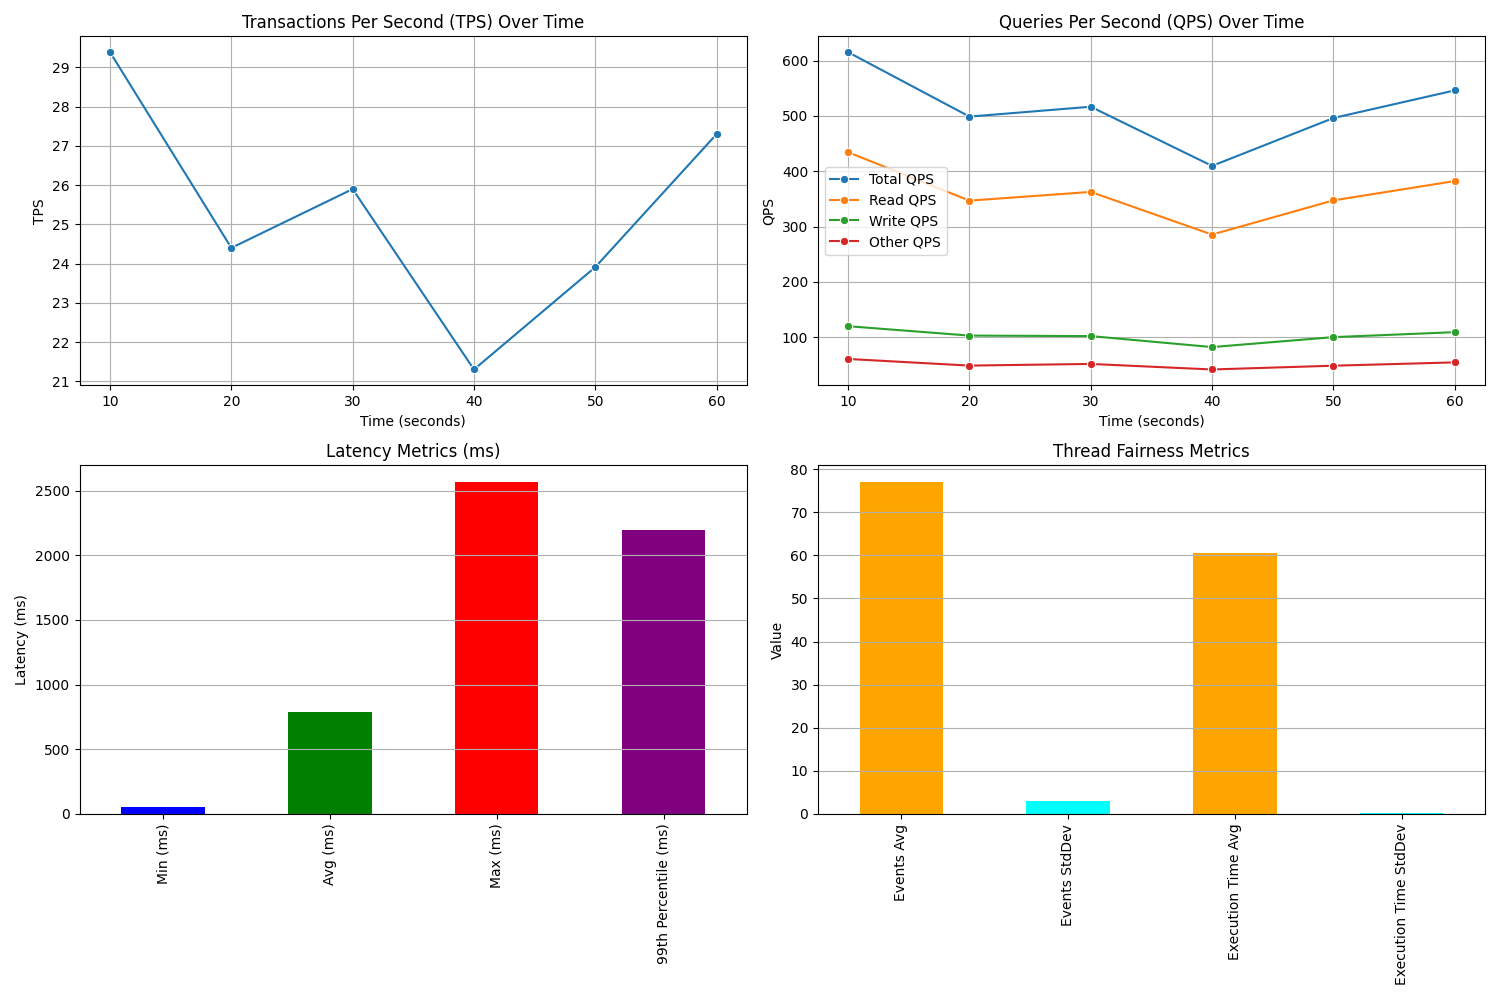
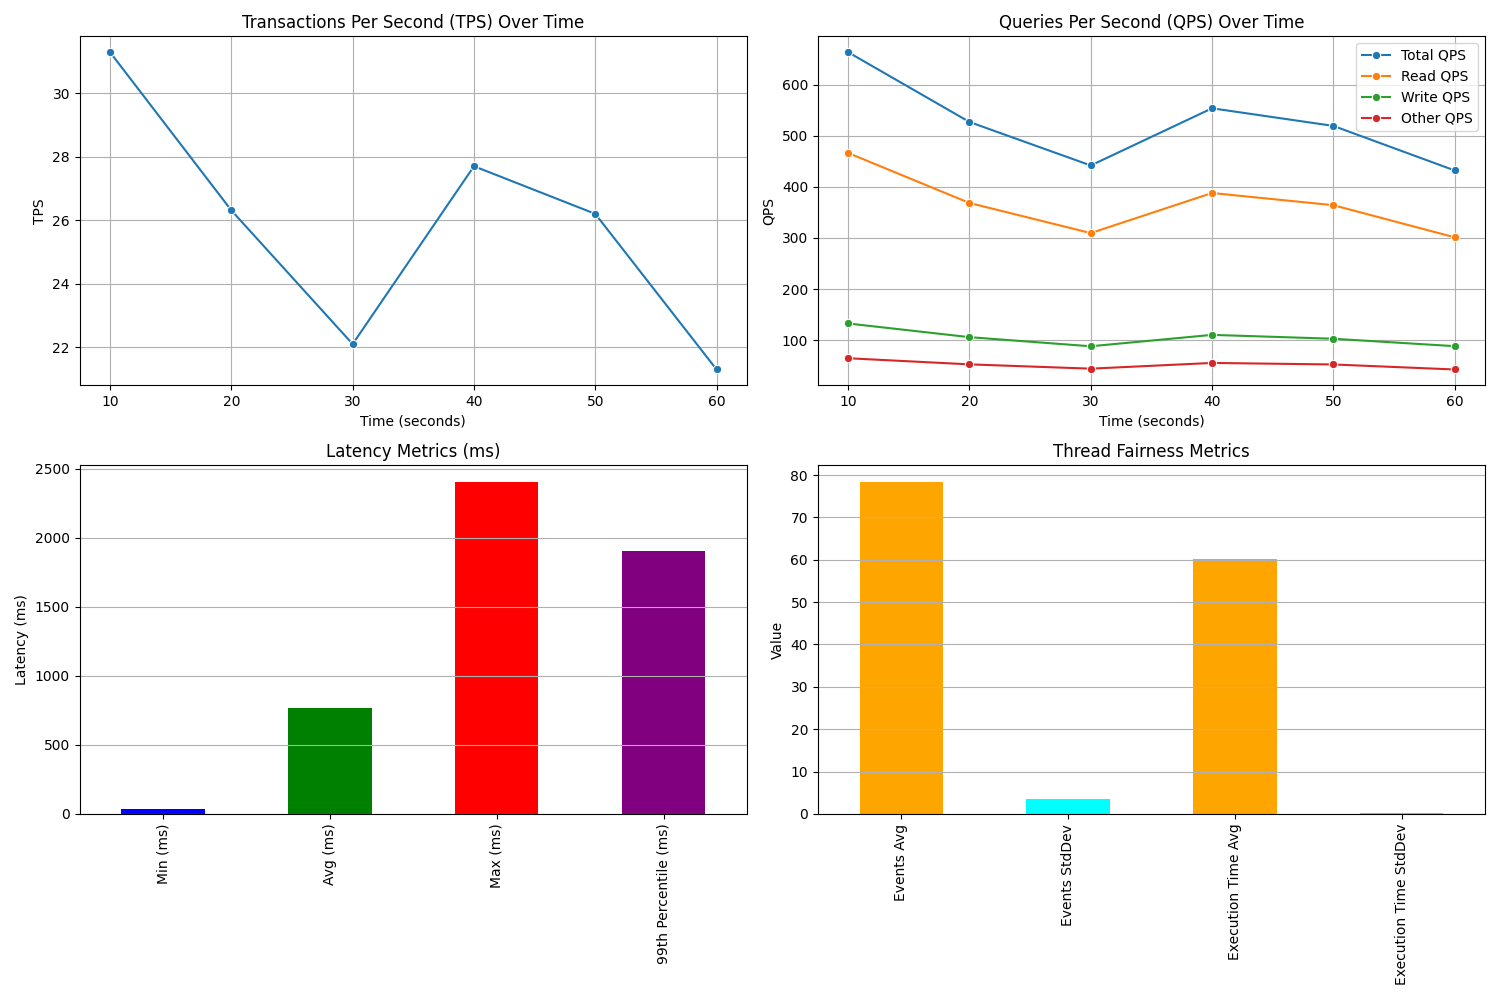
update condition to loadbalancer evaluation funtion

diff --git a/loadbalancer_test.py b/loadbalancer_test.py
@@ -34,6 +34,19 @@ def perform_ab_test(client, config):
     lb_concurrency = config['Load_balance']['concurrency']
     lb_duration = config['Load_balance']['test_duration']
 
+    # Validate that all necessary parameters have values
+    if not all([lb_url, lb_num_requests, lb_concurrency, lb_duration]):
+        print("Missing required configuration values:")
+        if not lb_url:
+            print("- Load balancer URL (lb_url) is missing.")
+        if not lb_num_requests:
+            print("- Number of requests (lb_num_requests) is missing.")
+        if not lb_concurrency:
+            print("- Concurrency level (lb_concurrency) is missing.")
+        if not lb_duration:
+            print("- Test duration (lb_duration) is missing.")
+        return
+
     # Construct the `ab` command for load balancer testing
     ab_command = (
         f"ab -n {lb_num_requests} -c {lb_concurrency} {lb_url} > ab_metrics.txt"

diff --git a/plugins/plot_dashboard_plugin.py b/plugins/plot_dashboard_plugin.py
@@ -24,11 +24,11 @@ class PlotDashboardPlugin(Plugin):
 
         axs[0].imshow(sysbench_img)
         axs[0].axis('off')  # Hide axes for better visualization
-        axs[0].set_title('Sysbench Dashboard')
+        axs[0].set_title('Dashboard of Database performance')
 
         axs[1].imshow(ab_img)
         axs[1].axis('off')  # Hide axes for better visualization
-        axs[1].set_title('AB Dashboard')
+        axs[1].set_title('Dashboard of Load Balancer performance')
 
         plt.tight_layout()
         plt.show()
